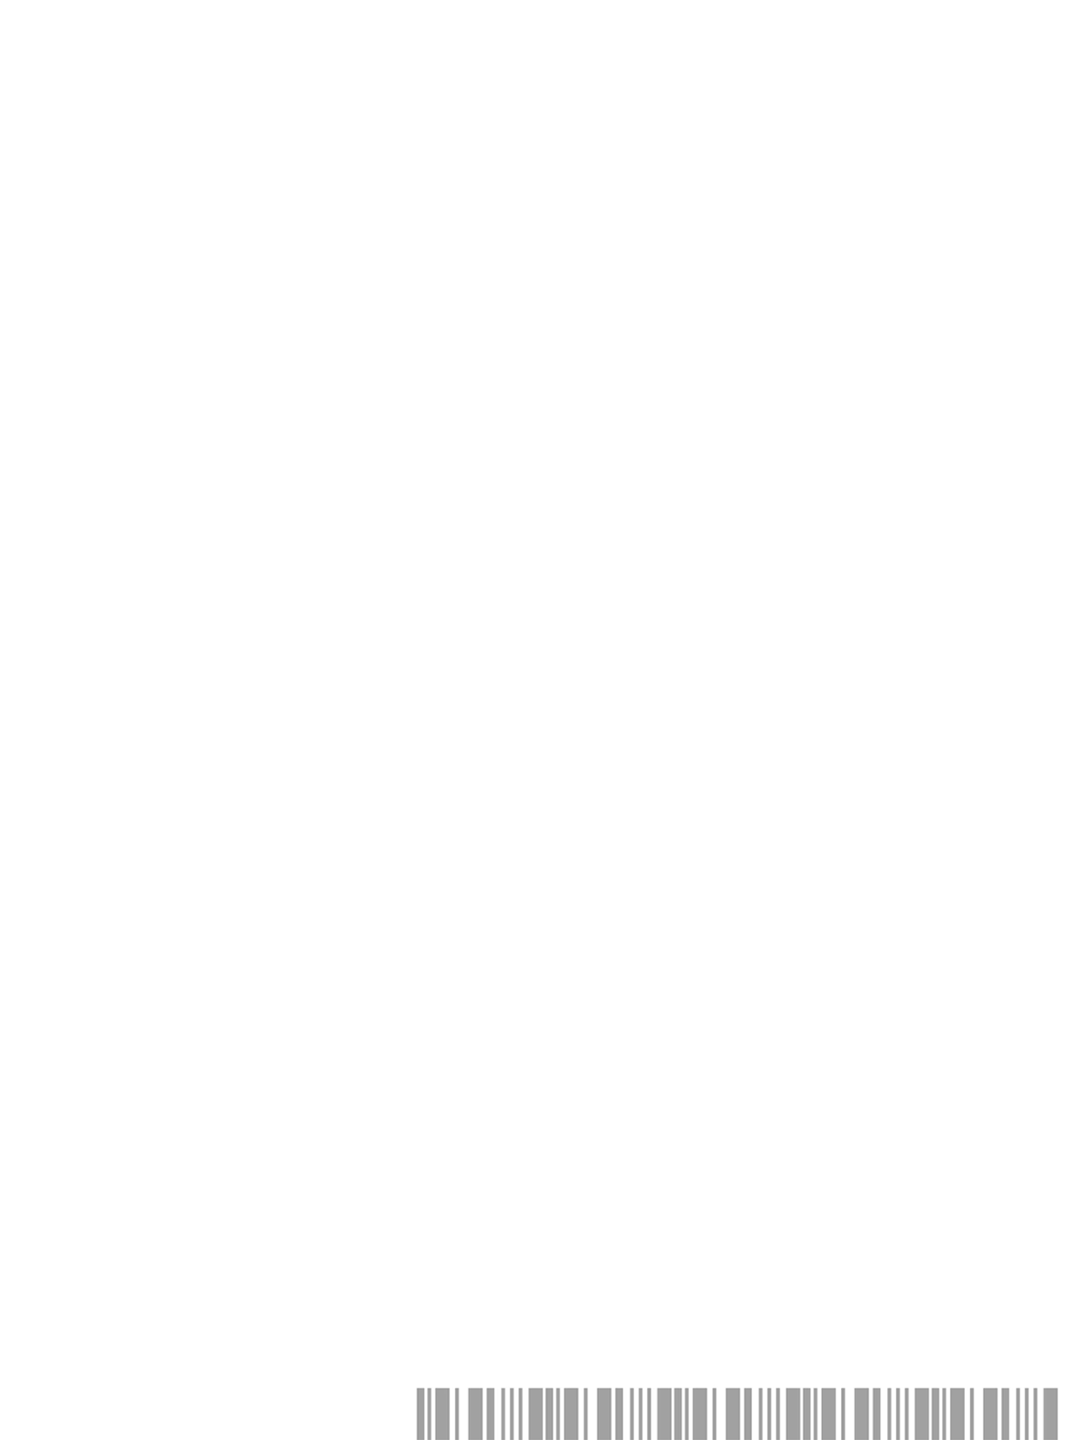
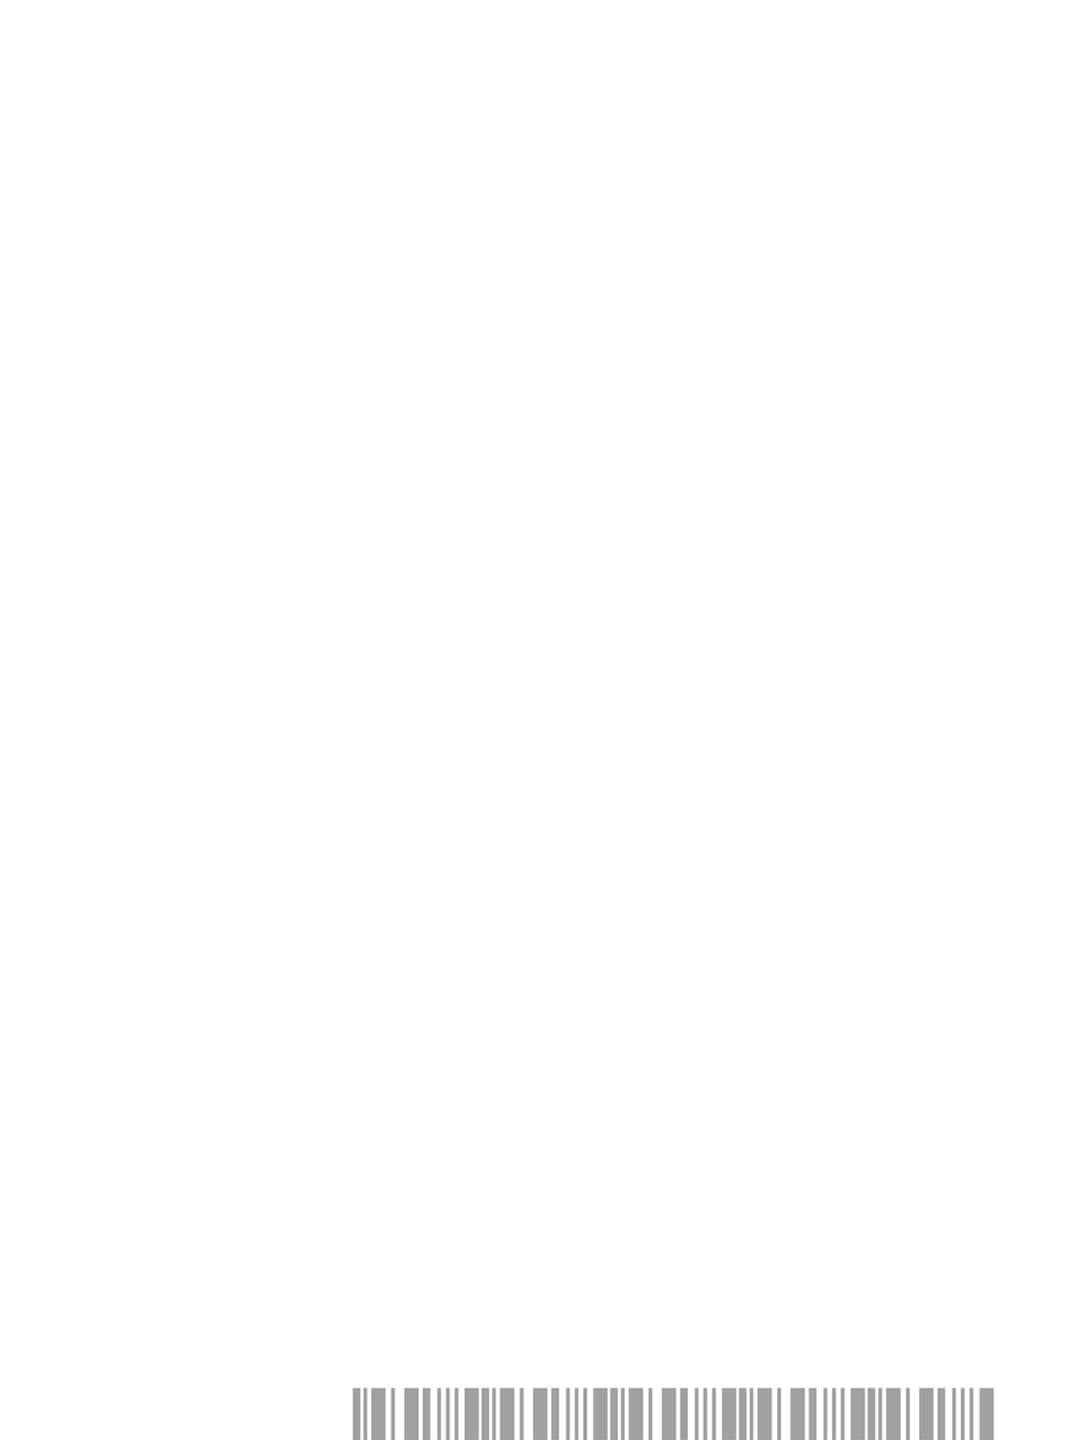
Add timestamp barcode to mission success share card

Changed region(s): [[0.3056, 0.9375, 0.9778, 1.0]]

diff --git a/src/utils/missionShareCard.ts b/src/utils/missionShareCard.ts
@@ -8,7 +8,7 @@ const agentProfiles = import.meta.glob('../assets/agent-profile-images/*.png', {
   import: 'default',
 }) as Record<string, string>
 
-const TEMPLATE_VERSION = '2026-02-03-11'
+const TEMPLATE_VERSION = '2026-02-03-12'
 const TEMPLATE_URL = `/templates/mission-success-template.svg?v=${TEMPLATE_VERSION}`
 const CANVAS_WIDTH = 1080
 const CANVAS_HEIGHT = 1440
@@ -42,6 +42,53 @@ const escapeXml = (value: string) =>
     .replace(/'/g, '&apos;')
 
 const escapeRegExp = (value: string) => value.replace(/[.*+?^${}()|[\]\\]/g, '\\$&')
+
+const hashString = (value: string) => {
+  let hash = 0
+  for (let i = 0; i < value.length; i += 1) {
+    hash = (hash << 5) - hash + value.charCodeAt(i)
+    hash |= 0
+  }
+  return hash >>> 0
+}
+
+const mulberry32 = (seed: number) => {
+  let t = seed >>> 0
+  return () => {
+    t += 0x6d2b79f5
+    let result = t
+    result = Math.imul(result ^ (result >>> 15), result | 1)
+    result ^= result + Math.imul(result ^ (result >>> 7), result | 61)
+    return ((result ^ (result >>> 14)) >>> 0) / 4294967296
+  }
+}
+
+const makeTimestampBarcodeSvg = (timestamp: string) => {
+  const width = 360
+  const height = 54
+  const originX = 1080 - 90 - width
+  const originY = 1440 - height
+  const rand = mulberry32(hashString(timestamp))
+  const rects: string[] = []
+  let cursor = 0
+
+  while (cursor < width) {
+    const barWidth = 2 + Math.floor(rand() * 4)
+    const gap = 1 + Math.floor(rand() * 2)
+    const heightScale = 0.7 + rand() * 0.3
+    const barHeight = Math.max(1, Math.round(height * heightScale))
+    const barX = originX + cursor
+    const barY = originY + (height - barHeight)
+
+    rects.push(
+      `<rect x="${barX}" y="${barY}" width="${barWidth}" height="${barHeight}" fill="#666666" opacity="0.85"/>`,
+    )
+
+    cursor += barWidth + gap
+  }
+
+  return rects.join('')
+}
 
 const formatDisplayTimestamp = (date: Date) =>
   date.toLocaleString('en-US', {
@@ -331,6 +378,7 @@ export const buildMissionSuccessCardPng = async ({
   const date = timestamp ? new Date(timestamp) : new Date()
   const safeDate = Number.isNaN(date.getTime()) ? new Date() : date
   const displayTimestamp = formatDisplayTimestamp(safeDate)
+  const barcodeSvg = makeTimestampBarcodeSvg(displayTimestamp)
 
   const filled = fillSvgPlaceholders(template, {
     USERNAME: displayHandle,
@@ -342,13 +390,14 @@ export const buildMissionSuccessCardPng = async ({
     DOT2_FILL: missionNumber >= 2 ? '#18b77a' : 'none',
     DOT3_FILL: missionNumber >= 3 ? '#18b77a' : 'none',
   })
+  const withBarcode = filled.replaceAll('{{BARCODE_SVG}}', barcodeSvg)
 
   const imageData = await loadImageData()
   const agentProfile = await loadProfileData(safeToken)
   if (!agentProfile || agentProfile.length < 50) {
     console.warn('Share card: profile data URI missing/too short', { token: safeToken })
   }
-  let embedded = embedImages(filled, { ...imageData, agentProfile })
+  let embedded = embedImages(withBarcode, { ...imageData, agentProfile })
   embedded = embedded.replaceAll('__AGENT_PROFILE__', agentProfile)
   if (embedded.includes('__AGENT_PROFILE__')) {
     console.warn('Share card: AGENT_PROFILE token not replaced')
